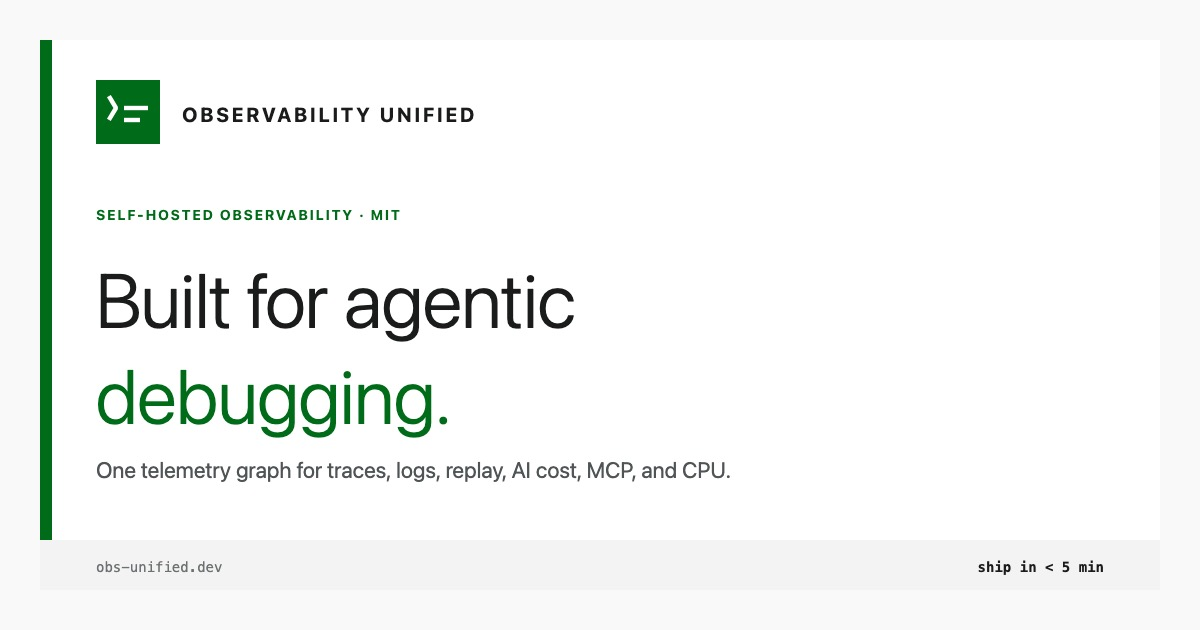
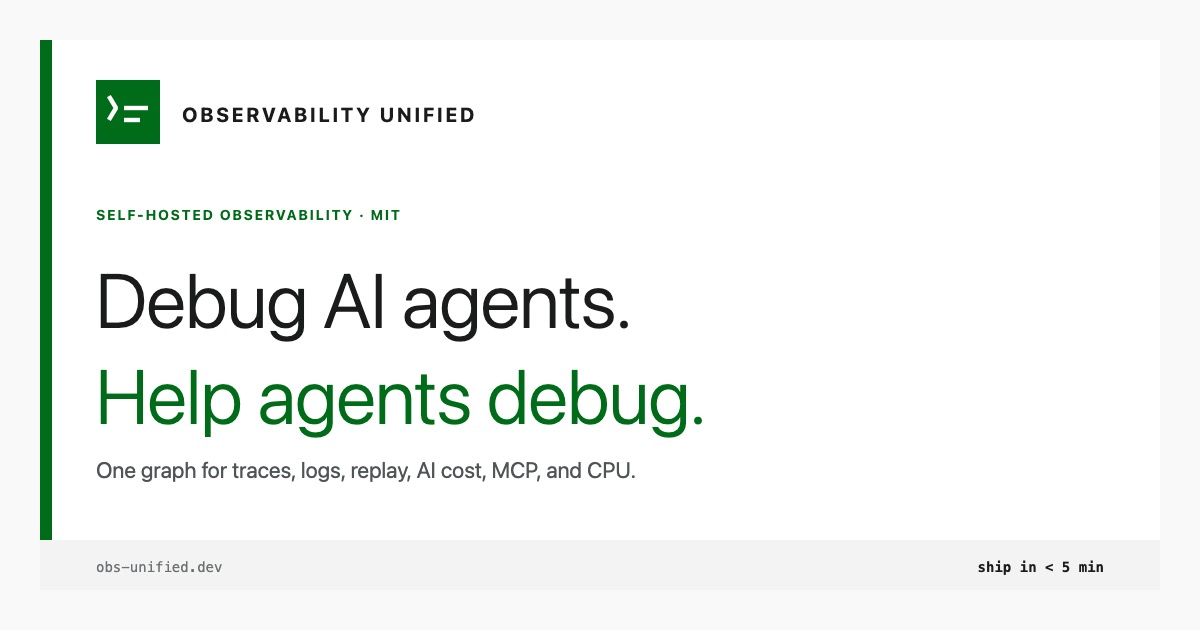
Clarify human and agent debugging copy (#3)

Changed region(s): [[0.0617, 0.573, 0.5858, 0.6937], [0.0925, 0.4222, 0.5242, 0.5429], [0.1233, 0.7238, 0.6167, 0.7841]]

diff --git a/index.html b/index.html
@@ -14,30 +14,30 @@
     <link rel="manifest" href="/site.webmanifest" />
     <link rel="canonical" href="https://obsunified.com/" />
 
-    <title>Observability Unified — agentic debugging on one telemetry graph</title>
+    <title>Observability Unified — one graph for humans and AI agents debugging software</title>
     <meta
       name="description"
-      content="Self-hosted unified observability for agentic debugging across traces, logs, replay, AI cost, action graphs, MCP tools, and CPU profiles."
+      content="Self-hosted observability for debugging AI agents and helping AI agents debug software across traces, logs, replay, AI cost, action graphs, MCP tools, and CPU profiles."
     />
-    <meta name="keywords" content="unified observability, agentic debugging, Agent Action Graph, MCP server, Model Context Protocol, self-hosted, OpenTelemetry, OTLP, traces, logs, session replay, LLM observability, AI tracking, rrweb, Cloudflare Workers, D1" />
+    <meta name="keywords" content="unified observability, AI agent debugging, AI agent observability, agentic debugging, Agent Action Graph, MCP server, Model Context Protocol, self-hosted, OpenTelemetry, OTLP, traces, logs, session replay, LLM observability, AI tracking, rrweb, Cloudflare Workers, D1" />
     <meta name="author" content="Observability Unified" />
     <meta name="robots" content="index, follow, max-snippet:-1, max-image-preview:large, max-video-preview:-1" />
 
     <meta property="og:type" content="website" />
     <meta property="og:site_name" content="Observability Unified" />
-    <meta property="og:title" content="Observability Unified — agentic debugging on one telemetry graph" />
-    <meta property="og:description" content="Self-hosted unified observability across traces, logs, replay, AI cost, action graphs, MCP tools, and CPU profiles." />
+    <meta property="og:title" content="Observability Unified — one graph for humans and AI agents debugging software" />
+    <meta property="og:description" content="Debug AI agents, and give AI agents MCP context to debug software across traces, logs, replay, AI cost, action graphs, and CPU profiles." />
     <meta property="og:url" content="https://obsunified.com/" />
     <meta property="og:image" content="https://obsunified.com/og.jpg" />
     <meta property="og:image:width" content="1200" />
     <meta property="og:image:height" content="630" />
-    <meta property="og:image:alt" content="Observability Unified telemetry graph for agentic debugging" />
+    <meta property="og:image:alt" content="Observability Unified telemetry graph for debugging AI agents and helping agents debug software" />
 
     <meta name="twitter:card" content="summary_large_image" />
-    <meta name="twitter:title" content="Observability Unified — agentic debugging on one telemetry graph" />
-    <meta name="twitter:description" content="Self-hosted unified observability across traces, logs, replay, AI cost, action graphs, MCP tools, and CPU profiles." />
+    <meta name="twitter:title" content="Observability Unified — one graph for humans and AI agents debugging software" />
+    <meta name="twitter:description" content="Debug AI agents, and give AI agents MCP context to debug software across traces, logs, replay, AI cost, action graphs, and CPU profiles." />
     <meta name="twitter:image" content="https://obsunified.com/og.jpg" />
-    <meta name="twitter:image:alt" content="Observability Unified telemetry graph for agentic debugging" />
+    <meta name="twitter:image:alt" content="Observability Unified telemetry graph for debugging AI agents and helping agents debug software" />
 
   </head>
   <body>

diff --git a/src/schema.ts b/src/schema.ts
@@ -3,7 +3,7 @@ const DOCS_URL = "https://docs.obsunified.com/docs";
 const GITHUB_URL = "https://github.com/obs-unified/obs-unified";
 
 const description =
-  "Self-hosted unified observability for agentic debugging across traces, logs, replay, AI cost, action graphs, MCP tools, and CPU profiles.";
+  "Self-hosted observability for debugging AI agents and helping AI agents debug software across traces, logs, replay, AI cost, action graphs, MCP tools, and CPU profiles.";
 
 const graph = {
   "@context": "https://schema.org",
@@ -29,7 +29,7 @@ const graph = {
       "@type": "WebPage",
       "@id": `${SITE_URL}#webpage`,
       url: SITE_URL,
-      name: "Observability Unified — agentic debugging on one telemetry graph",
+      name: "Observability Unified — one graph for humans and AI agents debugging software",
       description,
       isPartOf: { "@id": `${SITE_URL}#website` },
       about: { "@id": `${SITE_URL}#software` },
@@ -42,7 +42,7 @@ const graph = {
       url: `${SITE_URL}og.jpg`,
       width: 1200,
       height: 630,
-      caption: "Observability Unified telemetry graph for agentic debugging",
+      caption: "Observability Unified telemetry graph for debugging AI agents and helping AI agents debug software",
     },
     {
       "@type": "SoftwareApplication",
@@ -66,14 +66,14 @@ const graph = {
         "@type": "Review",
         author: { "@type": "Organization", name: "Observability Unified maintainers" },
         reviewBody:
-          "Designed as one self-hosted telemetry graph for agentic debugging, connecting frontend interactions to action graphs, backend traces, logs, replay, AI cost, MCP context, and CPU profiling evidence.",
+          "Designed as one self-hosted telemetry graph for debugging AI agents and helping AI agents debug software, connecting frontend interactions to action graphs, backend traces, logs, replay, AI cost, MCP context, and CPU profiling evidence.",
       },
       featureList: [
-        "Agentic debugging graph from user action to backend trace, action graph, MCP context, and CPU profile",
+        "One telemetry graph for humans and AI agents debugging software",
+        "Agent Action Graph for debugging AI agent runs, LLM calls, retrievals, tool calls, guardrails, and eval cases",
         "MCP server for AI agents to inspect traces, logs, replays, connected signals, agent runs, actions, and tool calls",
         "OpenTelemetry trace ingest over OTLP HTTP",
         "Structured logging with trace correlation",
-        "Agent Action Graph for LLM calls, retrievals, tool calls, guardrails, and eval cases",
         "LLM and AI call tracking for tokens, cost, latency, and errors",
         "Session replay via rrweb",
         "Frontend product analytics and usage events",

diff --git a/src/content/faq.ts b/src/content/faq.ts
@@ -3,15 +3,19 @@ export type QA = { q: string; a: string };
 export const FAQS: QA[] = [
   {
     q: "What is Observability Unified?",
-    a: "Observability Unified is an open-source observability platform for agentic debugging. A single collector ingests traces, logs, AI calls, frontend events, session replays, alerts, profiles, analyses, and Agent Action Graph records. The dashboard and MCP server connect those signals through one identity chain, from user action to backend trace, logs, replay, AI cost, and CPU profile. The fastest first run is one local Docker image with Postgres, the collector, dashboard, blob storage, and seed data.",
+    a: "Observability Unified is an open-source observability platform for humans and AI agents debugging software. A single collector ingests traces, logs, AI calls, frontend events, session replays, alerts, profiles, analyses, and Agent Action Graph records. The dashboard helps engineers debug AI agents and production systems; the MCP server gives AI agents access to the same evidence graph. The fastest first run is one local Docker image with Postgres, the collector, dashboard, blob storage, and seed data.",
   },
   {
     q: "What is the Agent Action Graph?",
     a: "The Agent Action Graph shows what an agent did and what each step caused. It links browser actions, agent runs, LLM calls, retrievals, tool calls, guardrails, backend traces, logs, profiles, and eval cases through stable action IDs. Engineers see it in the dashboard; AI agents can traverse the same graph through MCP.",
   },
   {
+    q: "Is this for debugging AI agents or for agents debugging software?",
+    a: "Both. Observability Unified debugs AI agents by showing LLM calls, retrievals, tool calls, agent runs, evals, costs, latency, and failures in an Agent Action Graph. It also helps AI agents debug software by exposing MCP tools for traces, logs, service maps, users, replays, connected signals, agent runs, actions, and tool calls.",
+  },
+  {
     q: "Can AI agents inspect Observability Unified through MCP?",
-    a: "Yes. The Observability Unified MCP server exposes read-only tools for status, traces, logs, service maps, AI sessions, users, replays, connected signals, agent runs, actions, and tool calls. Agents can start from a failing trace or action ID and gather evidence without needing write access to telemetry ingest.",
+    a: "Yes. The Observability Unified MCP server exposes tools for status, traces, logs, service maps, AI sessions, users, replays, connected signals, agent runs, actions, and tool calls. Agents can start from a failing trace or action ID and gather the same evidence an engineer sees in the dashboard.",
   },
   {
     q: "How is it different from Datadog, Sentry, or PostHog?",

diff --git a/src/sections/hero.ts b/src/sections/hero.ts
@@ -8,17 +8,17 @@ export function renderHero(): string {
       <p class="eyebrow">Open source · MIT licensed</p>
       <h1 id="hero-title" class="hero-title">
         <span class="hero-title-line">Unified observability</span>
-        <span class="accent">for every signal.</span>
+        <span class="accent">for humans and agents.</span>
       </h1>
       <p class="hero-lead">
-        <strong>Built for agentic debugging:</strong> one telemetry graph
-        connects a user action to agent steps, backend traces, logs, replay, AI
-        cost, CPU profiles, and MCP context. <strong>Observability Unified</strong> puts
-        those signals into <strong>one collector</strong>, <strong>one identity
-        chain</strong>, <strong>one dashboard</strong>, and a read-only
-        <strong>MCP server for agents</strong>. Start locally with one Docker
-        image. For production, choose Cloudflare Workers with D1/R2, or run the
-        Node collector on any cloud with Postgres and S3-compatible storage.
+        <strong>Debug AI agents, and help AI agents debug software.</strong>
+        <strong>Observability Unified</strong> connects a user action to agent
+        steps, backend traces, logs, replay, AI cost, CPU profiles, and MCP
+        context in <strong>one telemetry graph</strong>. Humans use the
+        dashboard; agents use the <strong>MCP server</strong> to inspect the
+        same evidence. Start locally with one Docker image. For production,
+        choose Cloudflare Workers with D1/R2, or run the Node collector on any
+        cloud with Postgres and S3-compatible storage.
       </p>
       <div class="cta-row">
         <a class="btn btn-primary" href="${GETTING_STARTED_URL}">
@@ -48,7 +48,7 @@ export function renderHero(): string {
       </div>
       <figcaption>
         <span>Agent Action Graph</span>
-        <p>See what the agent did, what each step caused, and which traces, logs, replay, AI cost, MCP context, and profiles explain the result.</p>
+        <p>See what an agent did, what each step caused, and which traces, logs, replay, AI cost, MCP context, and profiles explain the result.</p>
       </figcaption>
     </figure>
   </div>

diff --git a/src/sections/features.ts b/src/sections/features.ts
@@ -47,7 +47,7 @@ const FEATURES: Feature[] = [
   },
   {
     title: "SDKs and MCP server",
-    body: "First-party SDKs for TypeScript, Go, and Rust plus a read-only MCP server that lets agents inspect traces, logs, replays, agent runs, actions, and tool calls.",
+    body: "First-party SDKs for TypeScript, Go, and Rust plus an MCP server that lets agents inspect traces, logs, replays, agent runs, actions, and tool calls.",
     icon: `<polyline points="8 18 2 12 8 6"/><polyline points="16 6 22 12 16 18"/><line x1="14" y1="4" x2="10" y2="20"/>`,
   },
 ];

diff --git a/src/style.css b/src/style.css
@@ -21,7 +21,8 @@
 * { box-sizing: border-box; }
 
 html, body { margin: 0; padding: 0; }
-html { overflow-x: clip; }
+html,
+body { overflow-x: hidden; }
 
 body {
   background: var(--color-sys-bg);
@@ -193,6 +194,14 @@ code {
   .brand-name {
     font-size: 11px;
     letter-spacing: 0.04em;
+  }
+}
+@media (max-width: 480px) {
+  .site-nav { display: none; }
+  .brand { gap: 8px; }
+  .brand-mark {
+    width: 30px;
+    height: 30px;
   }
 }
 

diff --git a/src/sections/architecture.ts b/src/sections/architecture.ts
@@ -61,7 +61,7 @@ export function renderArchitecture(): string {
         <div class="arch-boundary arch-boundary-read">
           <span class="arch-node-kicker">Read boundary</span>
           <strong>Dashboard + APIs + MCP</strong>
-          <p>Agents inspect telemetry with read-only investigation tools.</p>
+          <p>Agents inspect telemetry with MCP investigation tools.</p>
         </div>
       </div>
 
